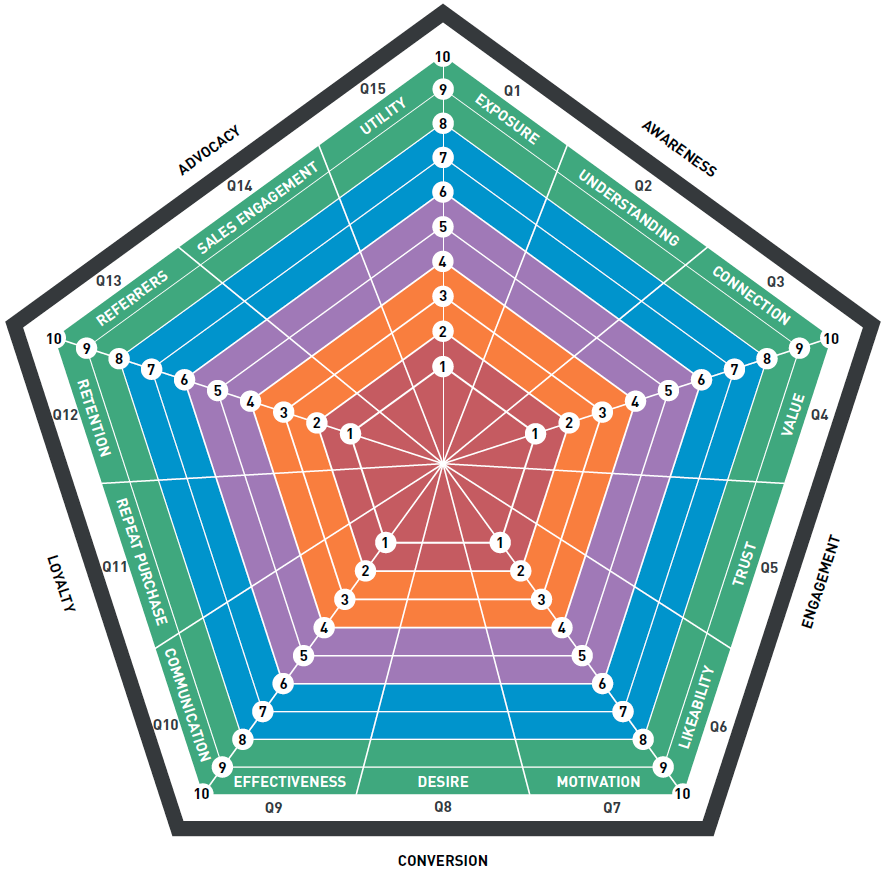
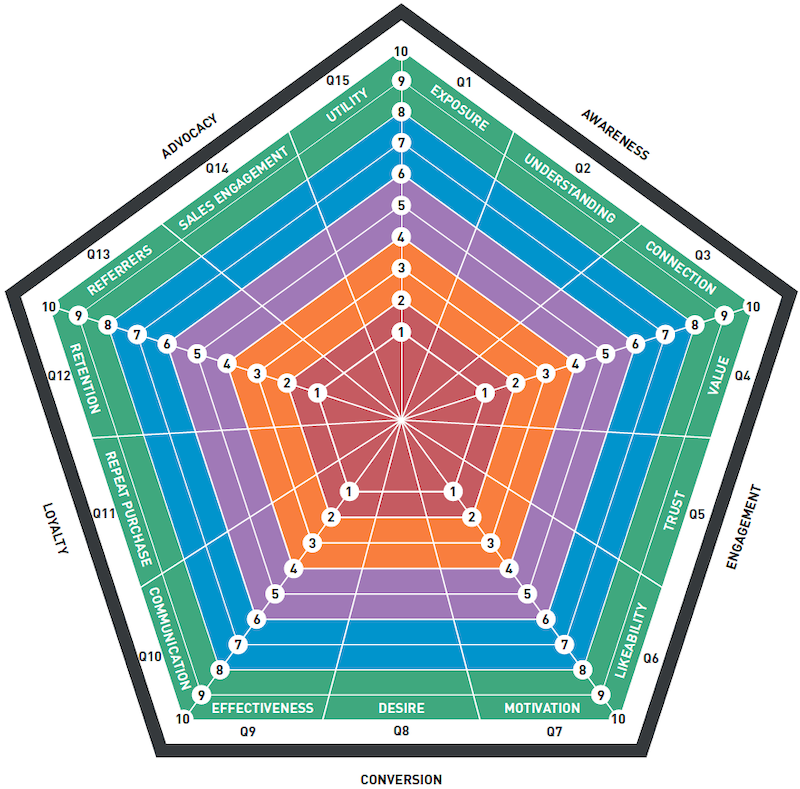
add chart to index, create new line inputs

diff --git a/index.html b/index.html
@@ -6,18 +6,25 @@
         <H2>Enter the Values</H2>
         
         
-            <form onsubmit="return results()" method="post" action="mailto:jason@tripwiremedia.com">
+            <form>
                 <H3>How would you rate the current level of  of your brand/business with your target market?</H3>
-                <input id="selection1" type="radio" name="awareness" value="10"/><label for="selection1">10</label></br>
-                <input id="selection2" type="radio" name="awareness" value="20" /><label for="selection2">20</label></br>
-                <input id="selection3" type="radio" name="awareness" value="30" /><label for="selection3">30</label></br>
+                <input id="s1" type="radio" name="awareness" value="10"/><label for="s1">10</label>
+                <input id="s2" type="radio" name="awareness" value="20" /><label for="s2">20</label>
+                <input id="s3" type="radio" name="awareness" value="30" /><label for="s3">30</label>
+                <input id="s4" type="radio" name="awareness" value="40"/><label for="s4">10</label>
+                <input id="s5" type="radio" name="awareness" value="50" /><label for="s5">20</label>
+                <input id="s6" type="radio" name="awareness" value="60" /><label for="s6">30</label>
+                <input id="s7" type="radio" name="awareness" value="70"/><label for="s7">10</label>
+                <input id="s8" type="radio" name="awareness" value="80" /><label for="s8">20</label>
+                <input id="s9" type="radio" name="awareness" value="90" /><label for="s9">30</label>
+                <input id="s10" type="radio" name="awareness" value="100" /><label for="s10">30</label>
                 <button type="submit">Submit that shit</button>
             </form>
             
         <script src="https://cdnjs.cloudflare.com/ajax/libs/Chart.js/2.6.0/Chart.min.js"></script>
         <h1>
-            <div style= "background-image: url('http://i.imgur.com/yf6d9SX.jpg'); width:fit-content ; height:fit-content;">
-                <canvas id="radarchart" height="500" width="500" style="display: block; height: 500px; width: 500px;">
+            <div style= "background-image: url('chart.png'); background-repeat: no-repeat; background-size: auto; width: 800px; height: 800px;">
+                <canvas id="radarchart" height="800" width="800" style="display: block; height: 800px; width: 800px;">
             </div>
         </h1>
         <script>
@@ -30,10 +37,10 @@
             var data = {
                 labels: ['', '', '', '', '', '', '', '', '', '', '', '', '', '', ''],
                 datasets: [{
-                    label: "Marketing Needs",
+                    label: "Marketing Status",
                     backgroundColor: "rgba(179,181,198,0.2)",
-                    borderColor: "#3385FF",
-                    pointBackgroundColor: "#3385FF",
+                    borderColor: "#000",
+                    pointBackgroundColor: "rgba(100%, 0%, 0%, 1)",
                     pointBorderColor: "#fff",
                     pointHoverBackgroundColor: "#3385FF",
                     pointHoverBorderColor: "#3385FF",
@@ -89,18 +96,6 @@
         [...awarenessChoices].forEach(option => {
             option.addEventListener('change', updateChart);
         });
-
-        function results() {
-            if (document.getElementById("selection1").checked) {
-                awareness = document.getElementById("selection1").value;
-            }   else if (document.getElementById("selection2").checked) {
-                awareness = document.getElementById("selection2").value;
-            }   else {
-                awareness = document.getElementbyId("selection3").value;
-            }
-// testing 
-        document.write("Thanks for selecting " + awareness); 
-        };
         </script>
     </body>
 </html>
